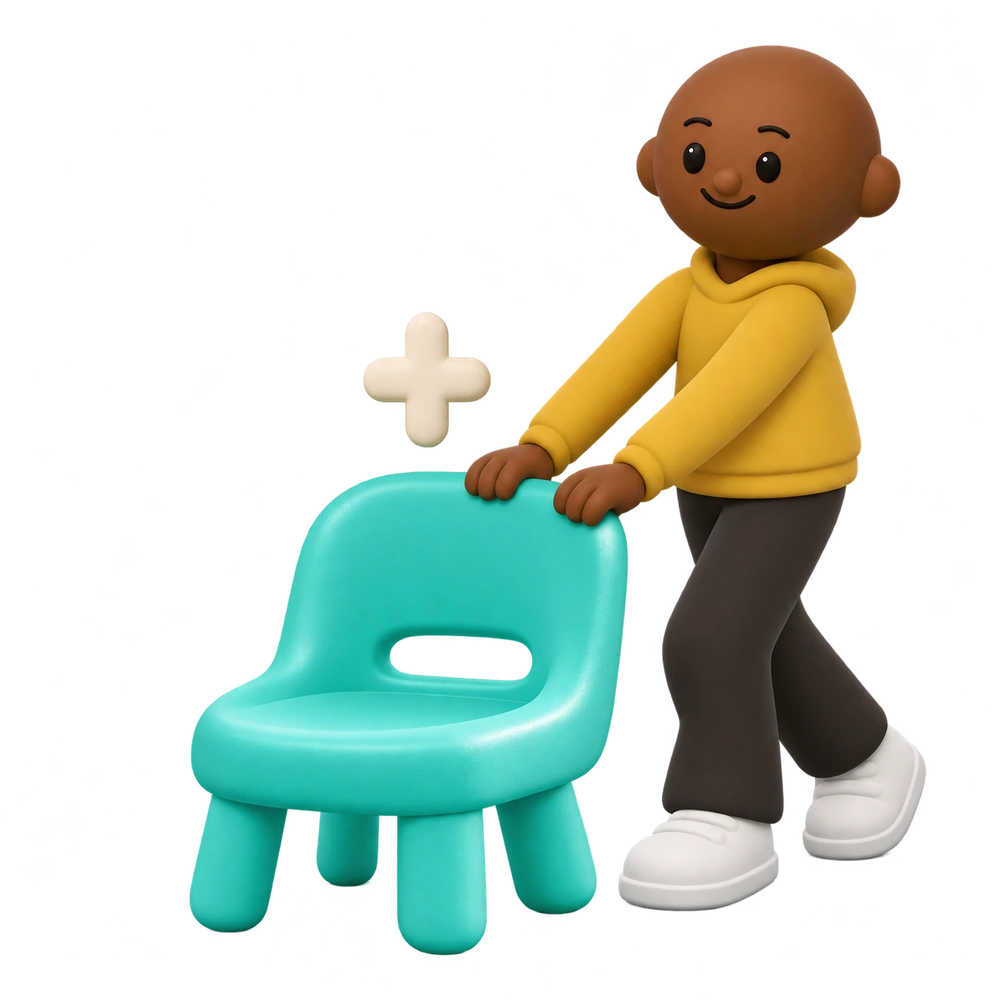
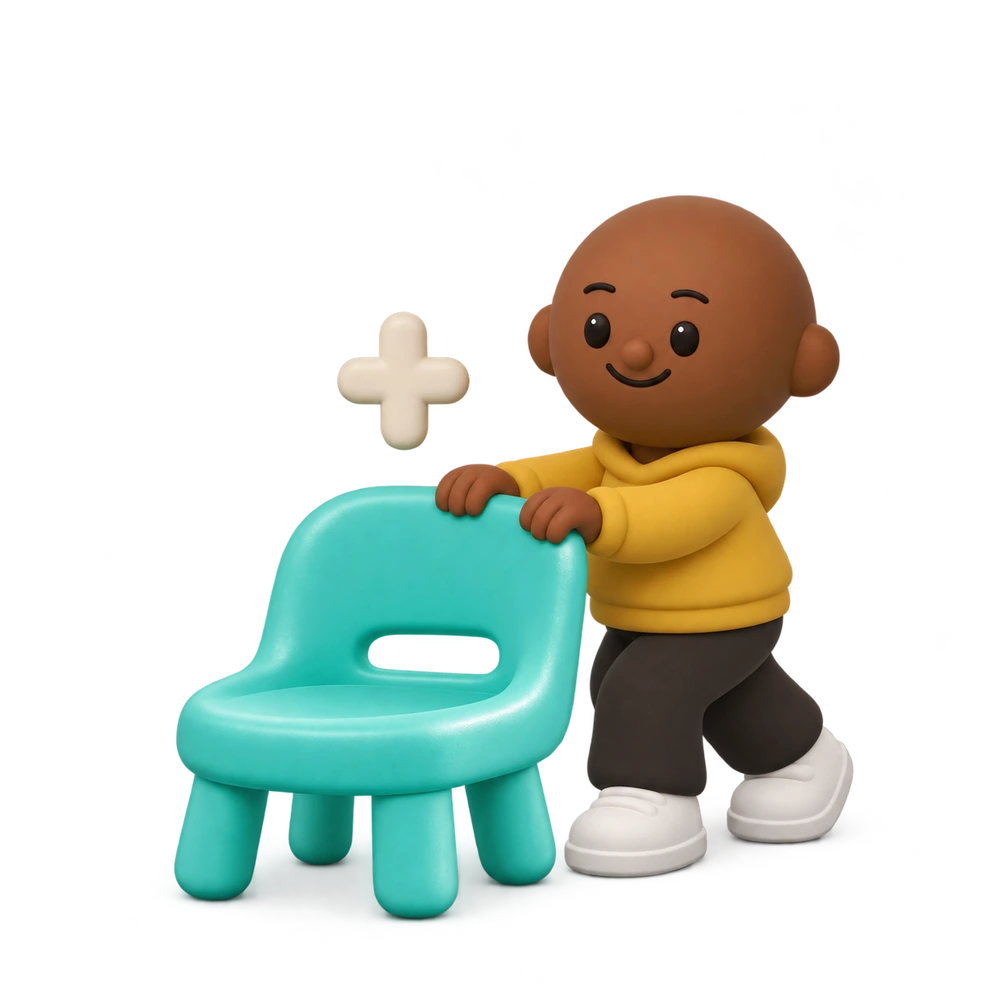
fix(landing): 바닥글 배치와 아바타 비율을 다듬는다
- 바닥글의 서비스 소개와 메뉴를 나란히 배치하고 모바일에서는 한 열로 쌓는다.
- 자리 만들기 아바타를 제공된 원본처럼 약 3등신으로 낮추고 디자인 문서를 갱신한다.

diff --git a/frontend/src/pages/landing/LandingChrome.jsx b/frontend/src/pages/landing/LandingChrome.jsx
@@ -120,6 +120,14 @@ export function LandingFooter() {
   return (
     <footer className="landing-footer">
       <div className="landing-container landing-footer__inner">
+        <div className="landing-footer__about">
+          <p className="landing-footer__brand">
+            <img alt="" height="28" src={logo} width="28" />
+            자리하나?
+          </p>
+          <p>자리하나?는 우아한테크코스 크루들이 만들고 운영하는 모임 서비스예요.</p>
+          <small>© {new Date().getFullYear()} 자리하나?</small>
+        </div>
         <nav aria-label="하단 메뉴" className="landing-footer__menus">
           <div className="landing-footer__menu">
             <p className="landing-footer__menu-title">서비스</p>
@@ -141,14 +149,6 @@ export function LandingFooter() {
             </a>
           </div>
         </nav>
-        <div className="landing-footer__about">
-          <p className="landing-footer__brand">
-            <img alt="" height="28" src={logo} width="28" />
-            자리하나?
-          </p>
-          <p>자리하나?는 우아한테크코스 크루들이 만들고 운영하는 모임 서비스예요.</p>
-          <small>© {new Date().getFullYear()} 자리하나?</small>
-        </div>
       </div>
     </footer>
   );

diff --git a/frontend/src/pages/landing/landing-chrome.css b/frontend/src/pages/landing/landing-chrome.css
@@ -36,8 +36,10 @@
 }
 
 .landing-footer .landing-footer__inner {
-  flex-direction: column;
-  gap: var(--space-10);
+  display: grid;
+  grid-template-columns: minmax(0, 1fr) auto;
+  align-items: start;
+  gap: var(--space-10) var(--space-16);
 }
 .landing-footer .landing-footer__menus {
   display: flex;
@@ -58,16 +60,25 @@
 .landing-footer .landing-footer__about p {
   margin: 0 0 var(--space-2);
 }
+.landing-footer .landing-footer__about {
+  min-width: 0;
+  max-width: 32rem;
+}
+.landing-footer .landing-footer__about small {
+  display: block;
+  margin-top: var(--space-10);
+}
 .landing-footer .landing-footer__brand {
   display: flex;
   align-items: center;
   gap: var(--space-2);
   color: var(--color-ink);
-  font-size: var(--text-body);
+  font-size: var(--text-hero-body);
   font-weight: var(--font-weight-extrabold);
 }
 .landing-footer {
   border-top: 1px solid var(--color-line);
+  background: var(--color-section-soft);
 }
 
 @media (max-width: 63.9375rem) {
@@ -77,6 +88,10 @@
 }
 
 @media (max-width: 47.9375rem) {
+  .landing-footer .landing-footer__inner {
+    grid-template-columns: minmax(0, 1fr);
+  }
+
   .landing-header .landing-header__nav,
   .landing-header .landing-header__explore {
     display: none;
